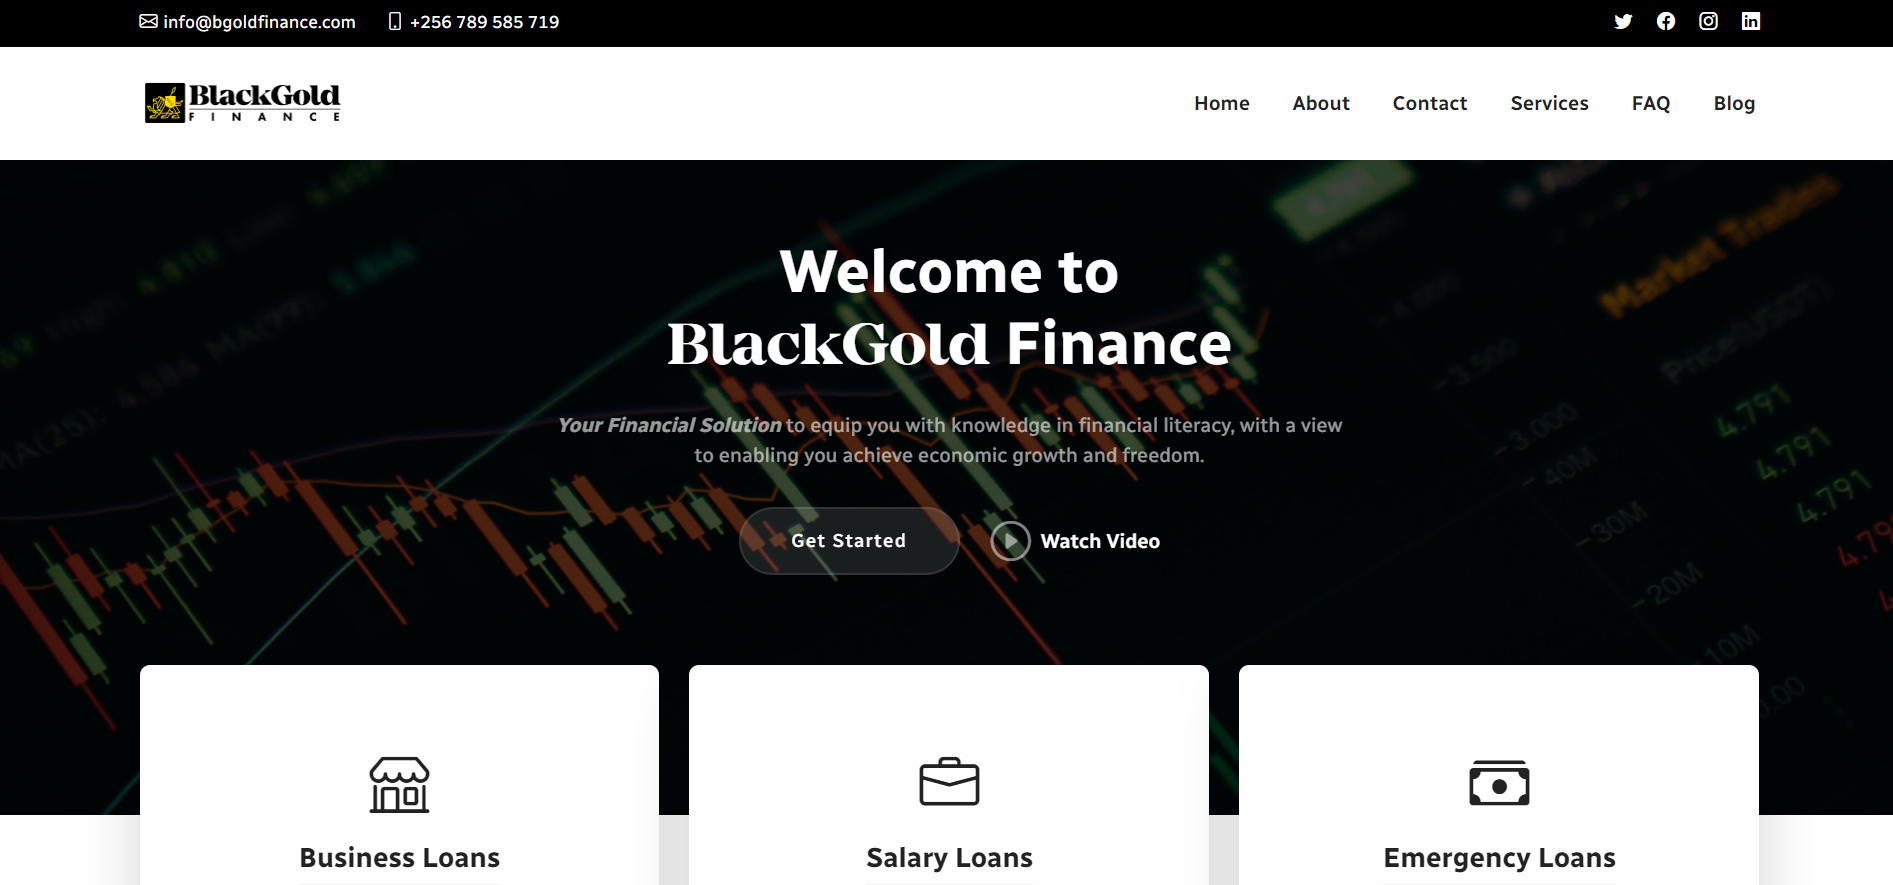
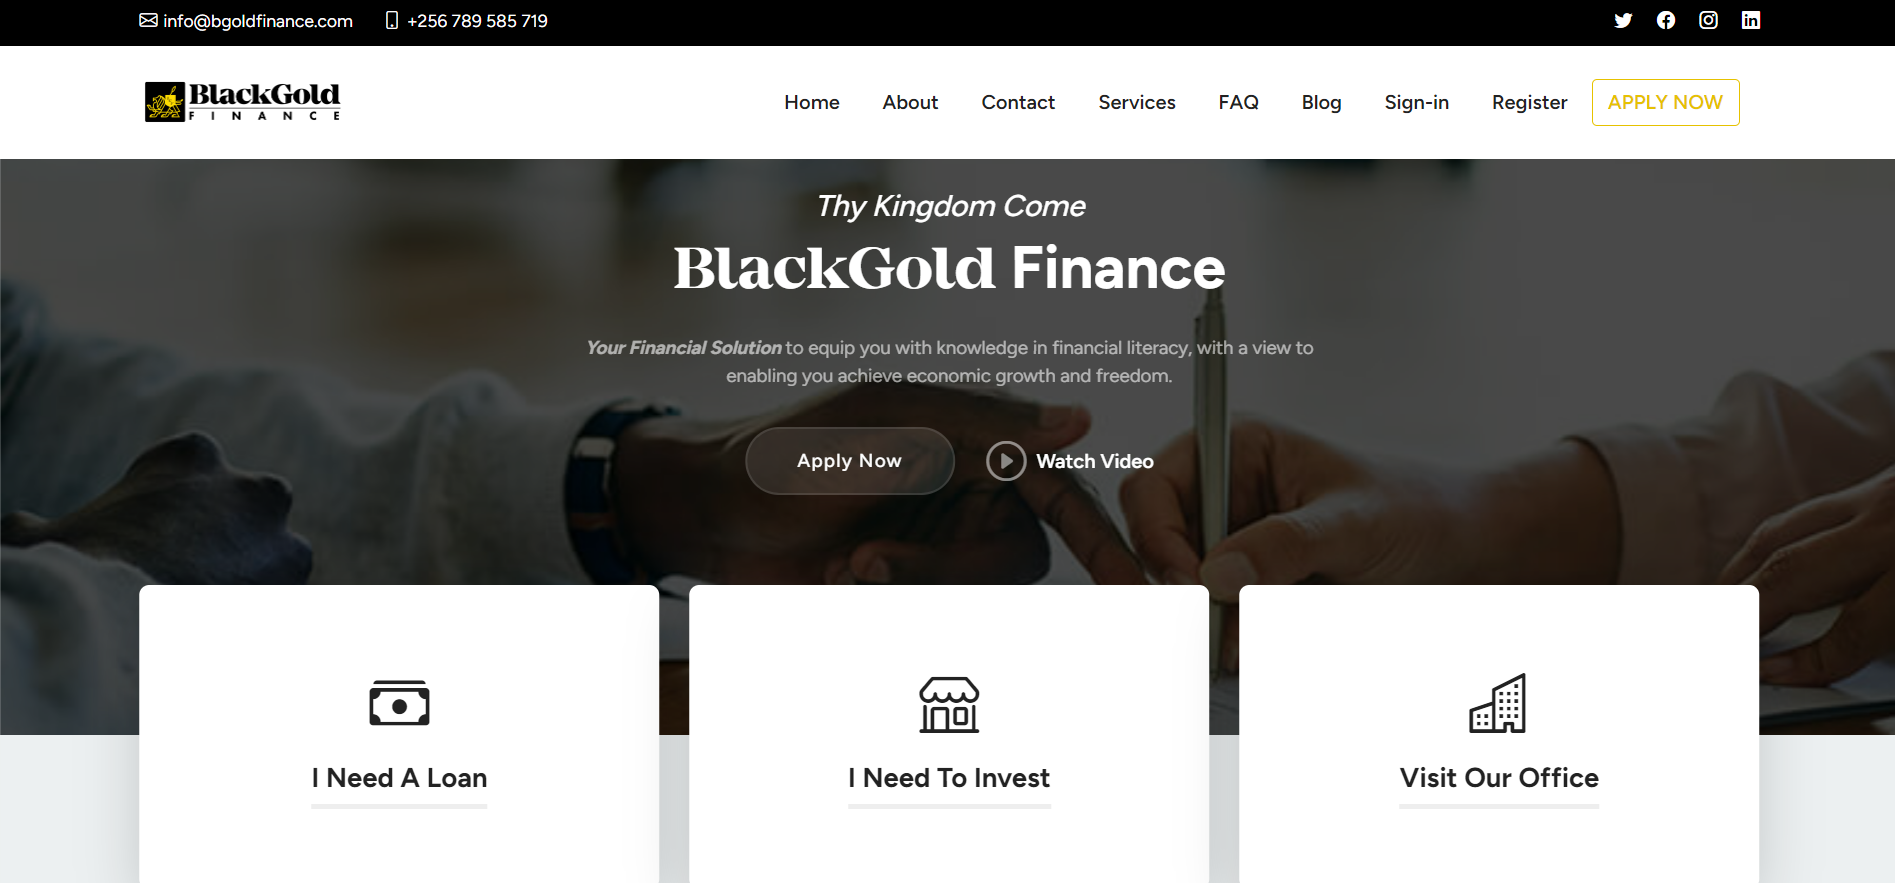
yvonne

diff --git a/assets/css/styles.css b/assets/css/styles.css
@@ -1,4 +1,4 @@
-@import url("https://fonts.googleapis.com/css2?family=Tajawal:wght@100;200;300;400;500;600;700;800;900");
+@import url("https://fonts.googleapis.com/css2?family=Radio+Canada:wght@100;200;300;400;500;600;700;800;900");
 
 /*
 ================
@@ -27,7 +27,7 @@ html {
 }
 
 body {
-    font-family: "Tajawal", sans-serif;
+    font-family: "Radio Canada", sans-serif;
     font-size: 14px;
     font-style: none;
     line-height: 24px;
@@ -40,7 +40,7 @@ body {
 }
 
 h1, h2, h3, h4, h5, h6 {
-    font-family: "Tajawal", sans-serif;
+    font-family: "Radio Canada", sans-serif;
 }
 
 p {
@@ -1224,7 +1224,7 @@ body {
         .mh-header .navbar-nav li a {
             border-bottom: 1px solid transparent;
             font-weight: bold;
-            font-family: "Tajawal", sans-serif;
+            font-family: "Radio Canada", sans-serif;
             font-size: 18px;
             opacity: 1;
             line-height: 30px;
@@ -1551,7 +1551,7 @@ body {
 
     .mh-progress .progressbar-text {
         color: inherit !important;
-		font-family: "Tajawal", sans-serif;
+		font-family: "Radio Canada", sans-serif;
     }
 
 .progress.progress-line {
@@ -1619,7 +1619,7 @@ body {
                 right: 0;
                 font-size: 14px;
                 font-weight: normal;
-				font-family: "Tajawal", sans-serif;
+				font-family: "Radio Canada", sans-serif;
             }
 
         .candidatos .parcial .progressBar {

diff --git a/index.html b/index.html
@@ -350,6 +350,17 @@
                         <div class="portfolioContainer row">
                             <div class="grid-item col-md-4 col-sm-6 col-xs-12 user-interface">
                                 <figure>
+                                    <img src="assets/images/sapphiredairy.png" alt="Sapphire Dairy Alternatives">
+                                    <figcaption class="fig-caption">
+                                        <i class="fa fa-link"></i>
+                                        <h5 class="title">Sapphire Dairy Alternatives</h5>
+                                        <span class="sub-title">Website</span>
+                                        <a href="https://sapphiredairyfree.com/" target="_blank"></a>
+                                    </figcaption>
+                                </figure>
+                            </div>
+							<div class="grid-item col-md-4 col-sm-6 col-xs-12 user-interface">
+                                <figure>
                                     <img src="assets/images/blackgoldfinance.png" alt="BlackGold Finance">
                                     <figcaption class="fig-caption">
                                         <i class="fa fa-link"></i>
